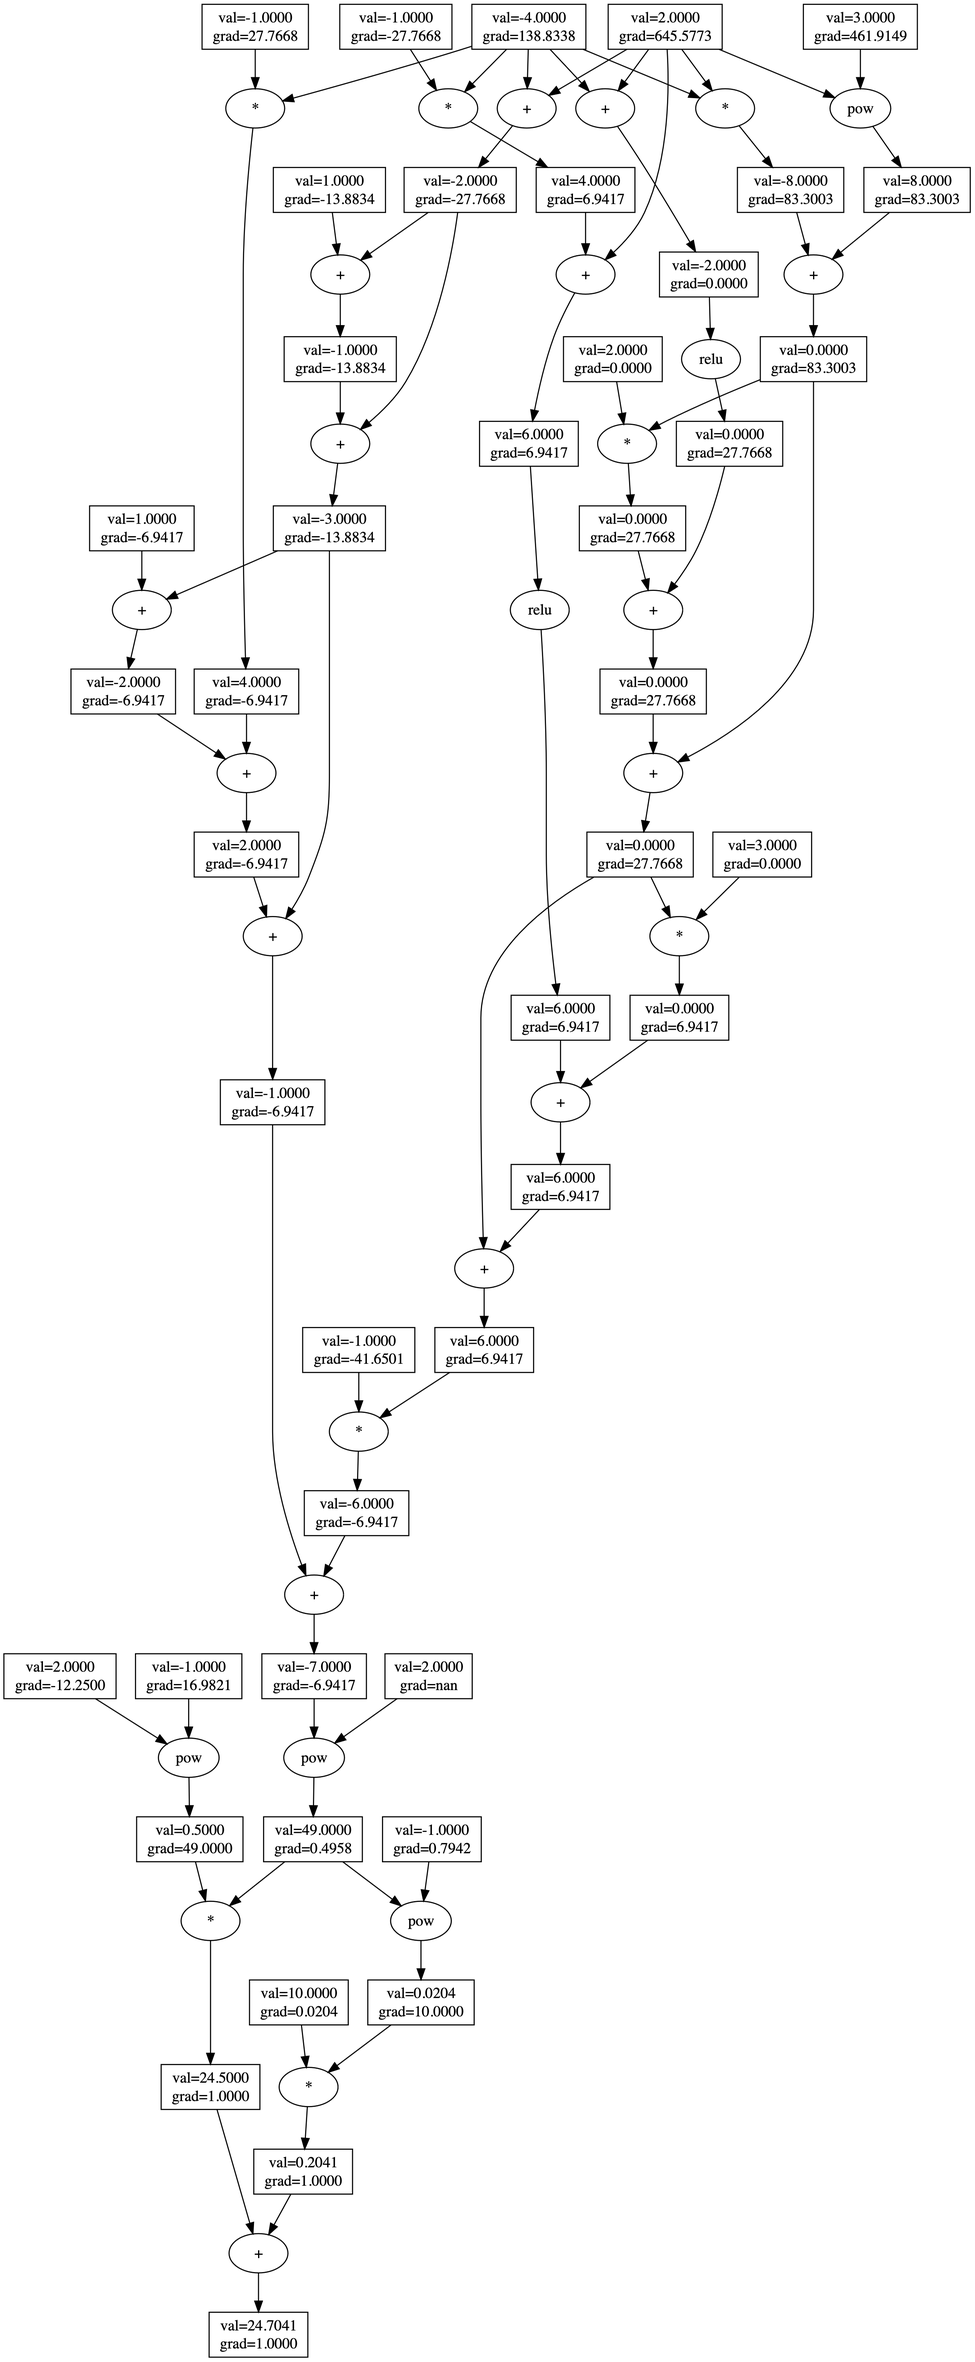
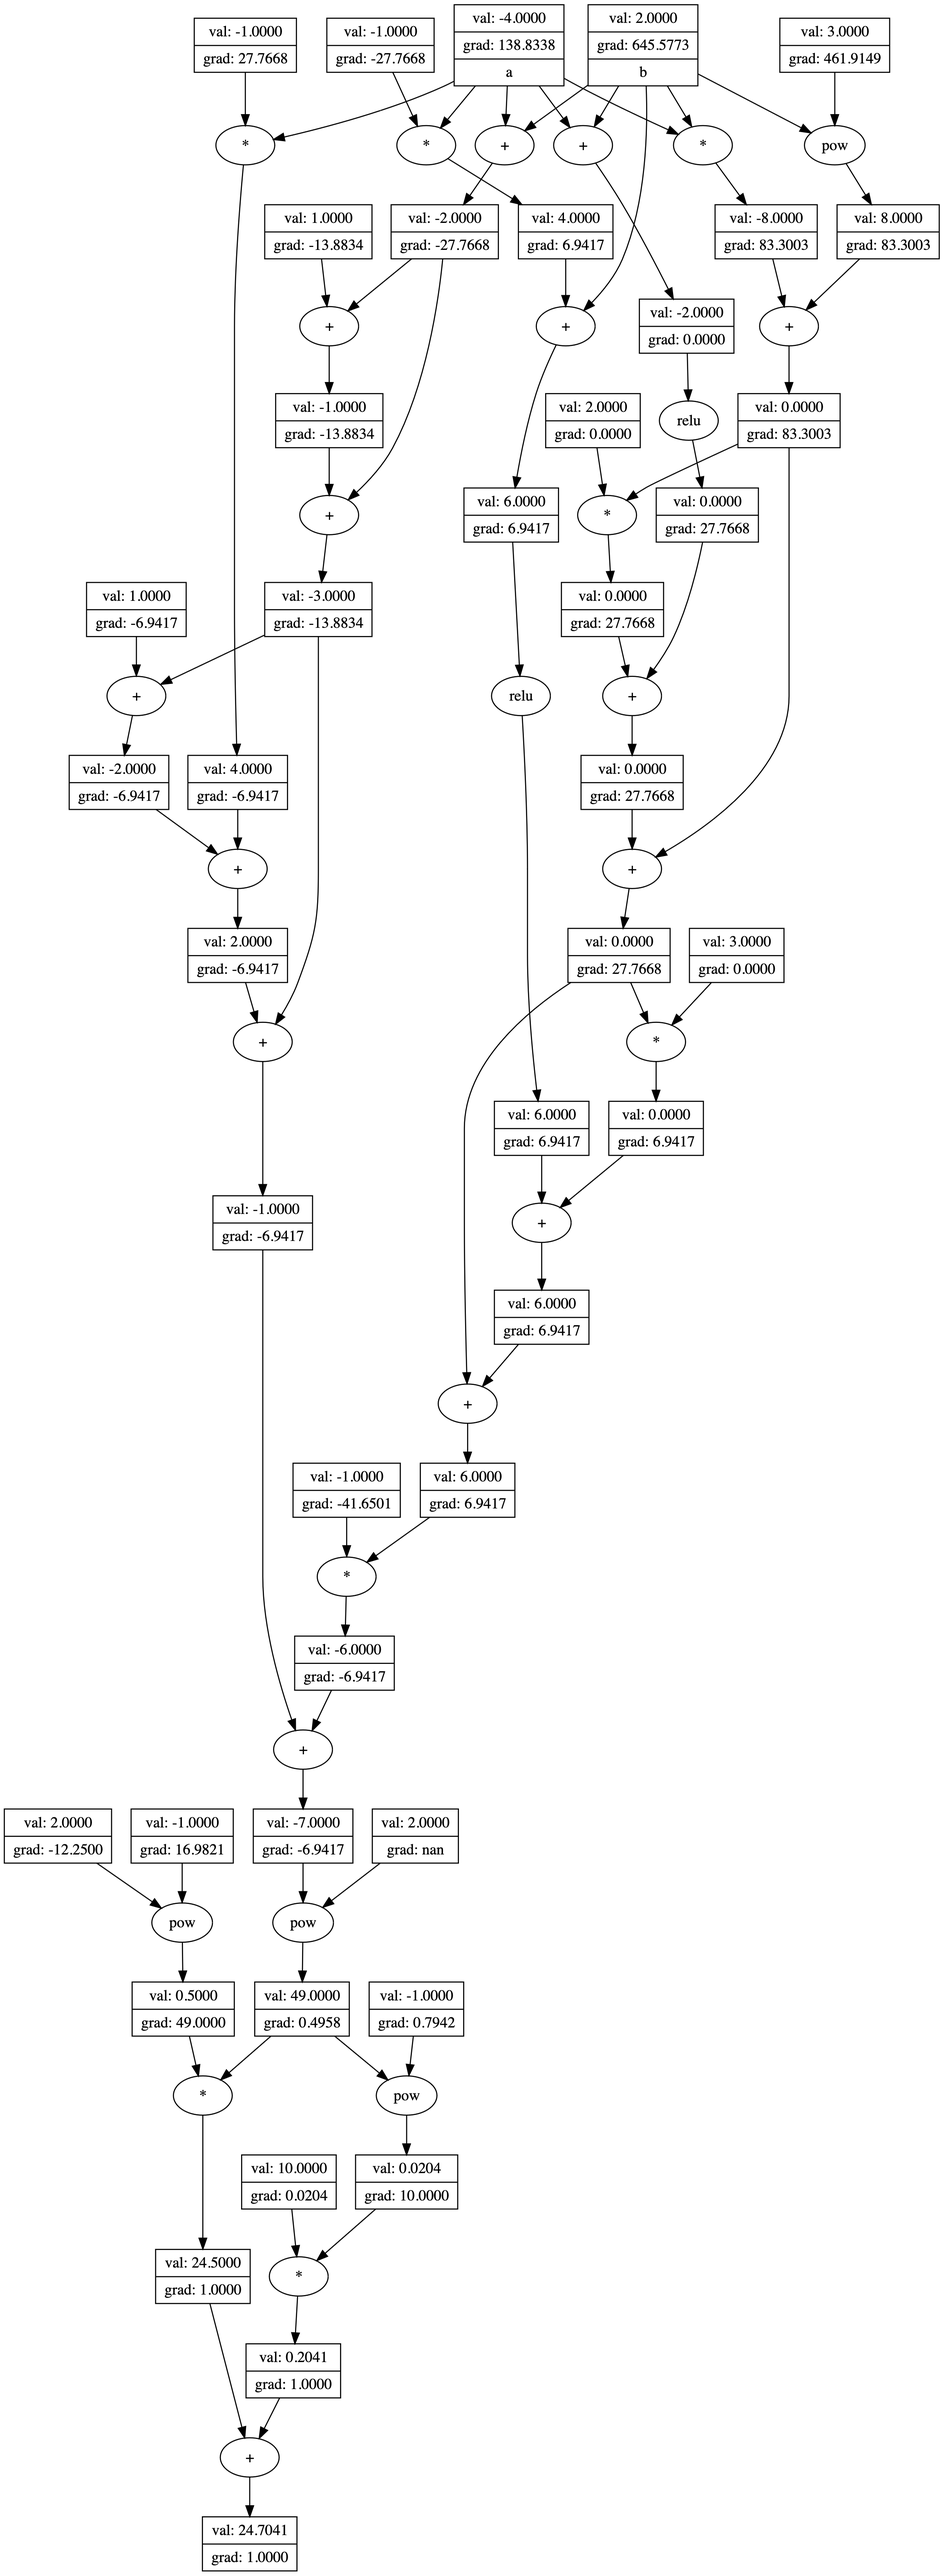
visualization

diff --git a/lib/engine.cpp b/lib/engine.cpp
@@ -10,8 +10,11 @@ std::pair<std::string, std::string> opDot(OpType *op)
 std::pair<std::string, std::string> valueDot(Value *v)
 {
   std::string valueName = "VAL" + std::to_string(reinterpret_cast<std::uintptr_t>(v));
+  std::string nameField;
+  if (!v->label().empty()) { nameField = std::format("|{}", v->label()); }
   return { valueName,
-    std::format(R"({} [label="val={:.4f}\n grad={:.4f}" shape="box"]; )", valueName, v->data(), v->grad()) };
+    std::format(
+      R"({} [label="{{val: {:.4f}|grad: {:.4f}{}}}" shape="record"]; )", valueName, v->data(), v->grad(), nameField) };
 }
 std::string opToString(OpType op)
 {

diff --git a/src/micrograd.cpp b/src/micrograd.cpp
@@ -6,8 +6,8 @@
 
 int main()
 {
-  auto a = std::make_shared<Value>(-4.0);
-  auto b = std::make_shared<Value>(2.0);
+  auto a = std::make_shared<Value>(-4.0, "a");
+  auto b = std::make_shared<Value>(2.0, "b");
   auto c = a + b;
   auto d = a * b + pow(b, 3);
   c += c + 1;

diff --git a/README.md b/README.md
@@ -34,8 +34,8 @@ To get a local copy up and running, follow these simple steps.
 To utilize the `micrograd-cpp` library, it is required to generate `std::shared_ptr` objects (which are typedef'd as `ValuePtr`). Following this, the `backward()` function should be invoked. A simple example:
 
 ```cpp
-  auto a = std::make_shared<Value>(-4.0);
-  auto b = std::make_shared<Value>(2.0);
+  auto a = std::make_shared<Value>(-4.0, "a");
+  auto b = std::make_shared<Value>(2.0, "b");
   auto c = a + b;
   auto d = a * b + pow(b, 3);
   c = c + c + 1;
